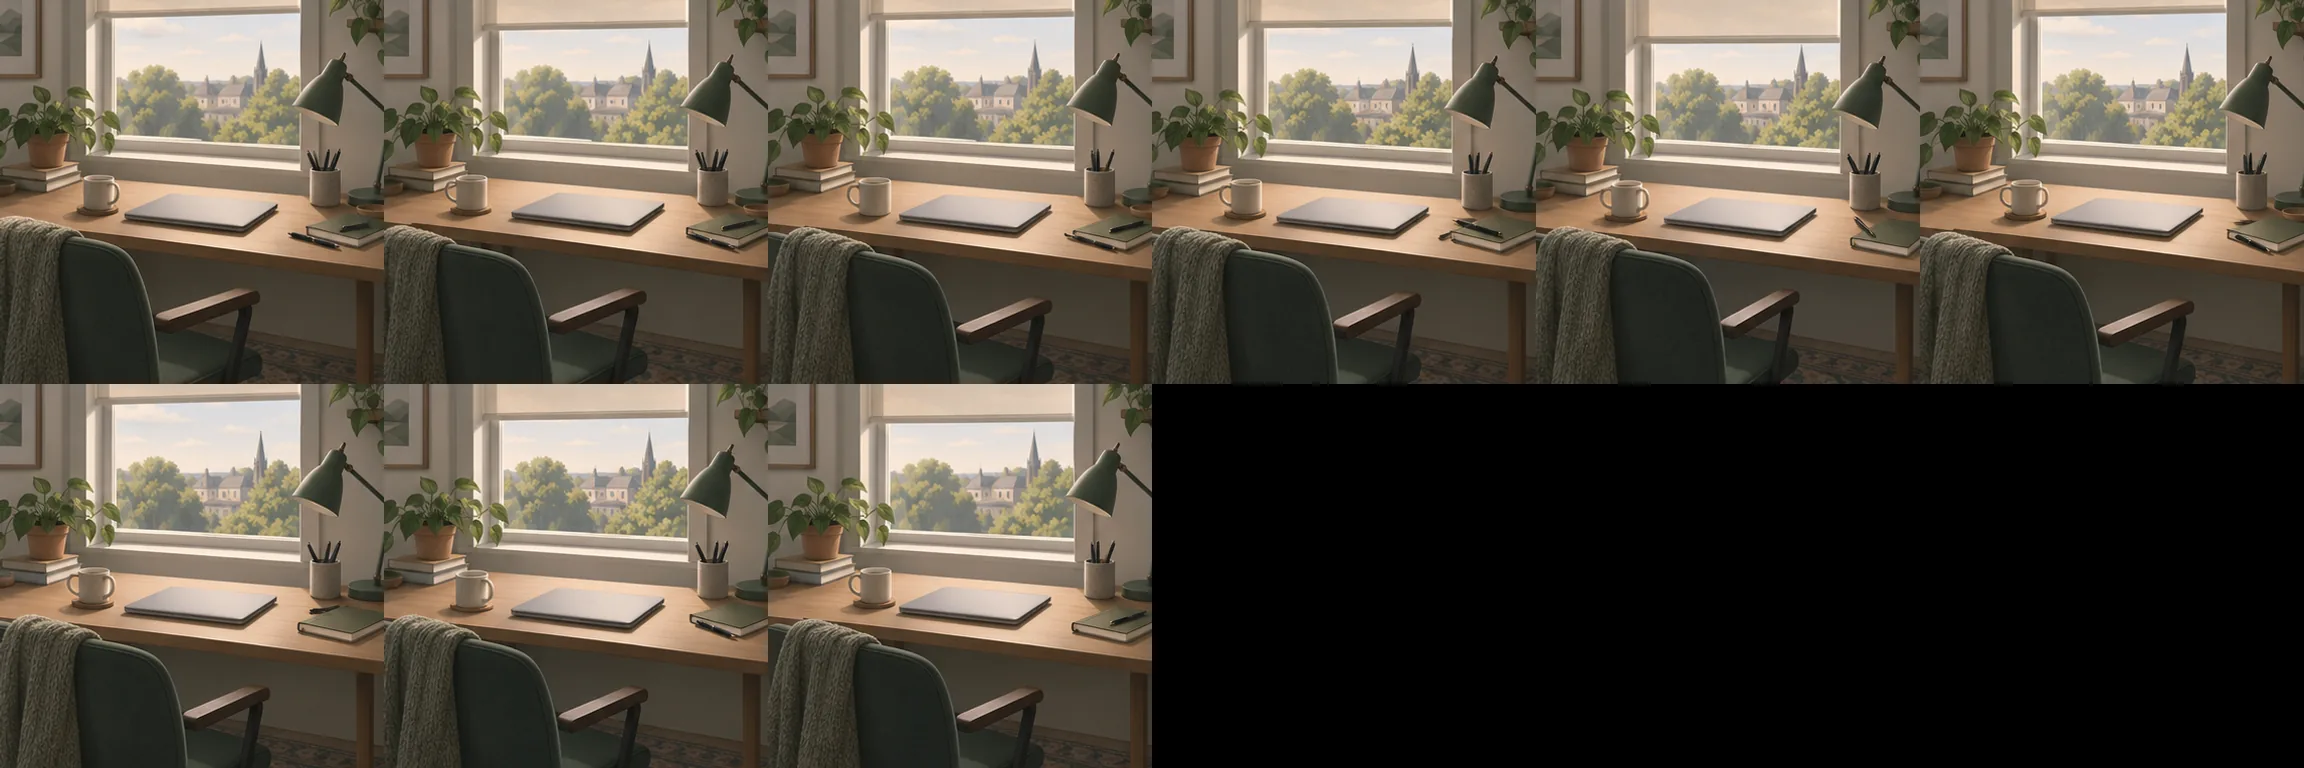
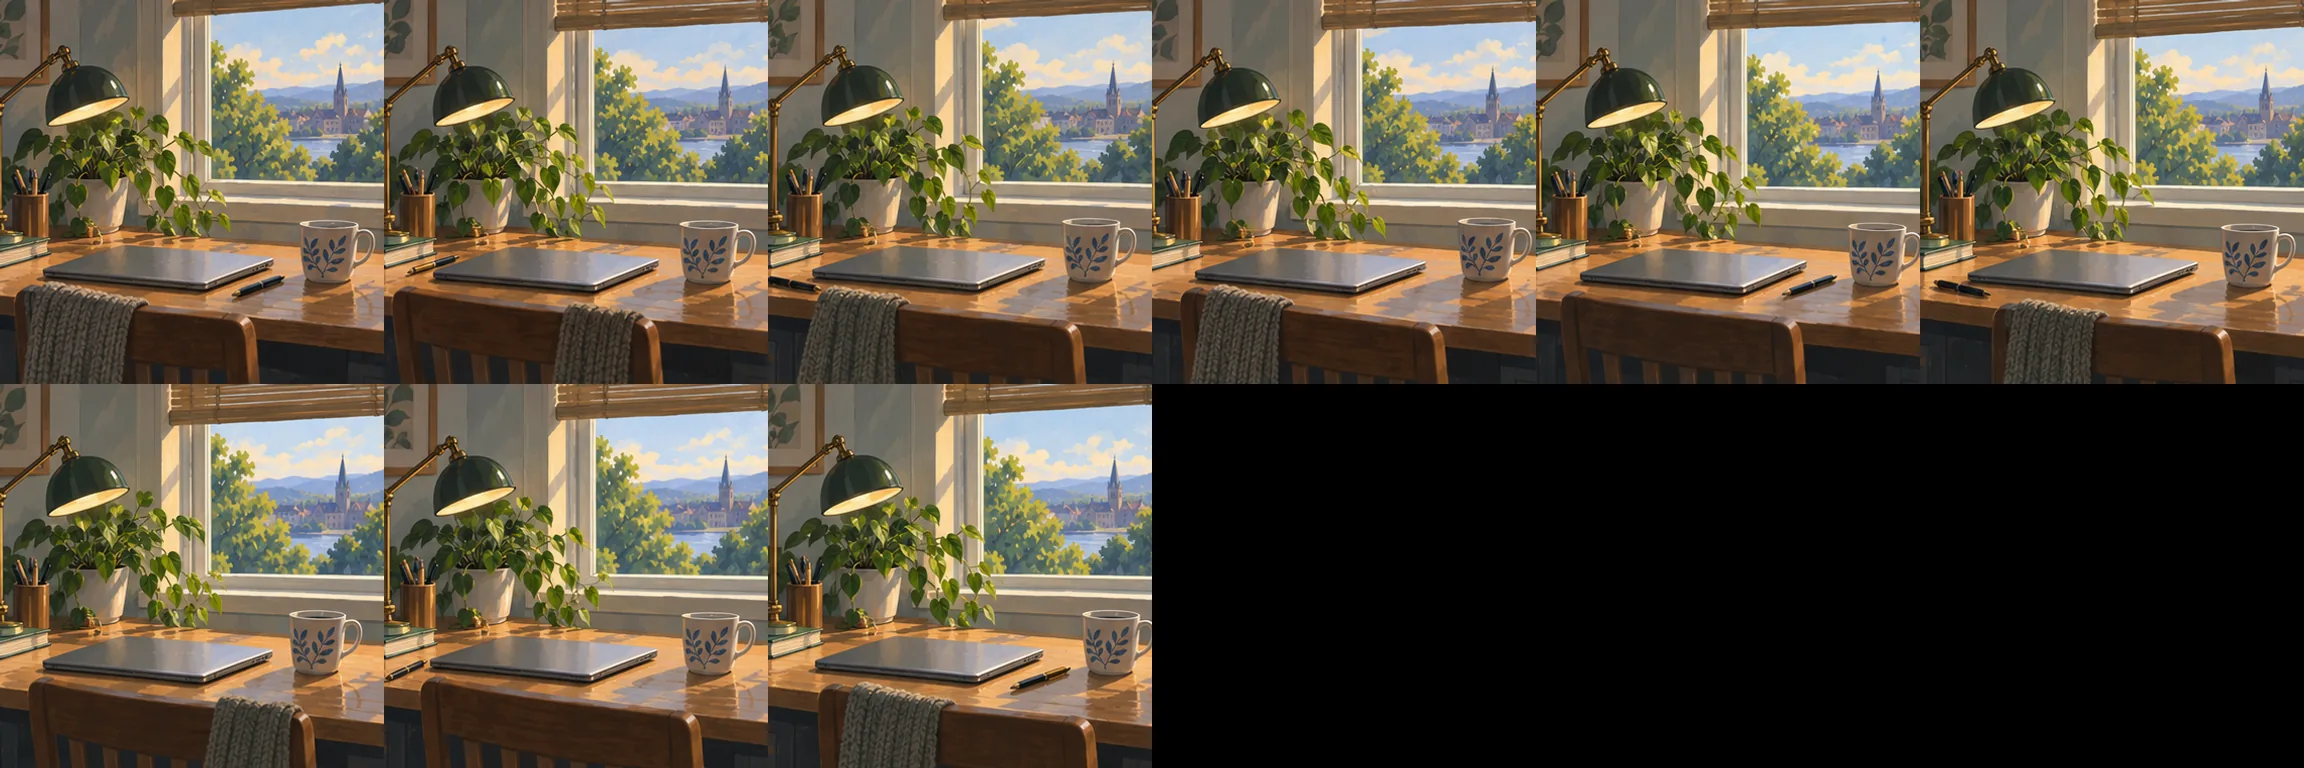
Scene 09: the same day, redrawn
The first same-day sheet read as a photograph beside the painted vivid
days. Re-run once with the style spelled out (ledger, session 8c): nine
painted desks, hard to tell apart, in the same hand as the park.

diff --git a/assets/LEDGER.md b/assets/LEDGER.md
@@ -379,3 +379,15 @@ square above their readings, through the glass; the same month reuses
 its nine in turn. One correction on wiring: the atlas is packed
 top-down and the texture reads bottom-up, so the first draw put day 26's
 picture under day 2's reading until the row was flipped.
+
+### Session 8c · the same day, redrawn
+
+The first same-day sheet (15) read as a photograph beside the painted
+vivid days. Re-run once with the style spelled out.
+
+| # | File (once downloaded) | Prompt | Result |
+| --- | --- | --- | --- |
+| 15b | `scene-09/days-same-v2.png` | Session 8's same-day prompt, with "must be in the illustrated style of the park plates and the last three vivid sheets: clean clustered shapes, crisp edges, painted light, visible brushwork, muted colours, not photographic", and a plant added to the desk | **Accept.** Painted, nine near-identical desks. About two and a half minutes. |
+
+Downloaded and filed 2026-09-08; `scripts/plates.mjs` now packs the desk
+atlas from 15b. The first sheet stays in `assets/raw/` for the record.
